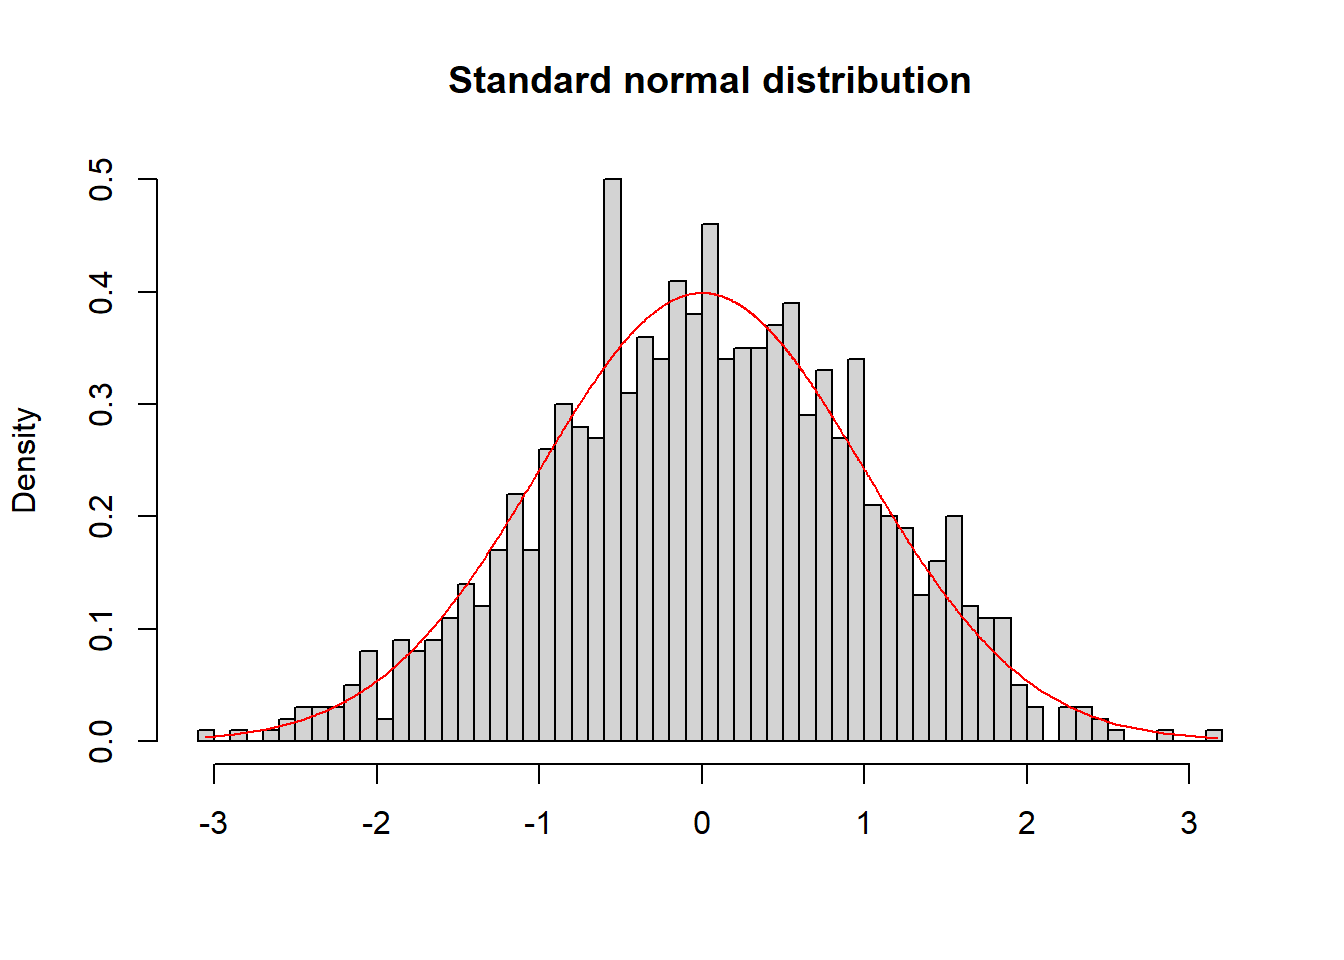
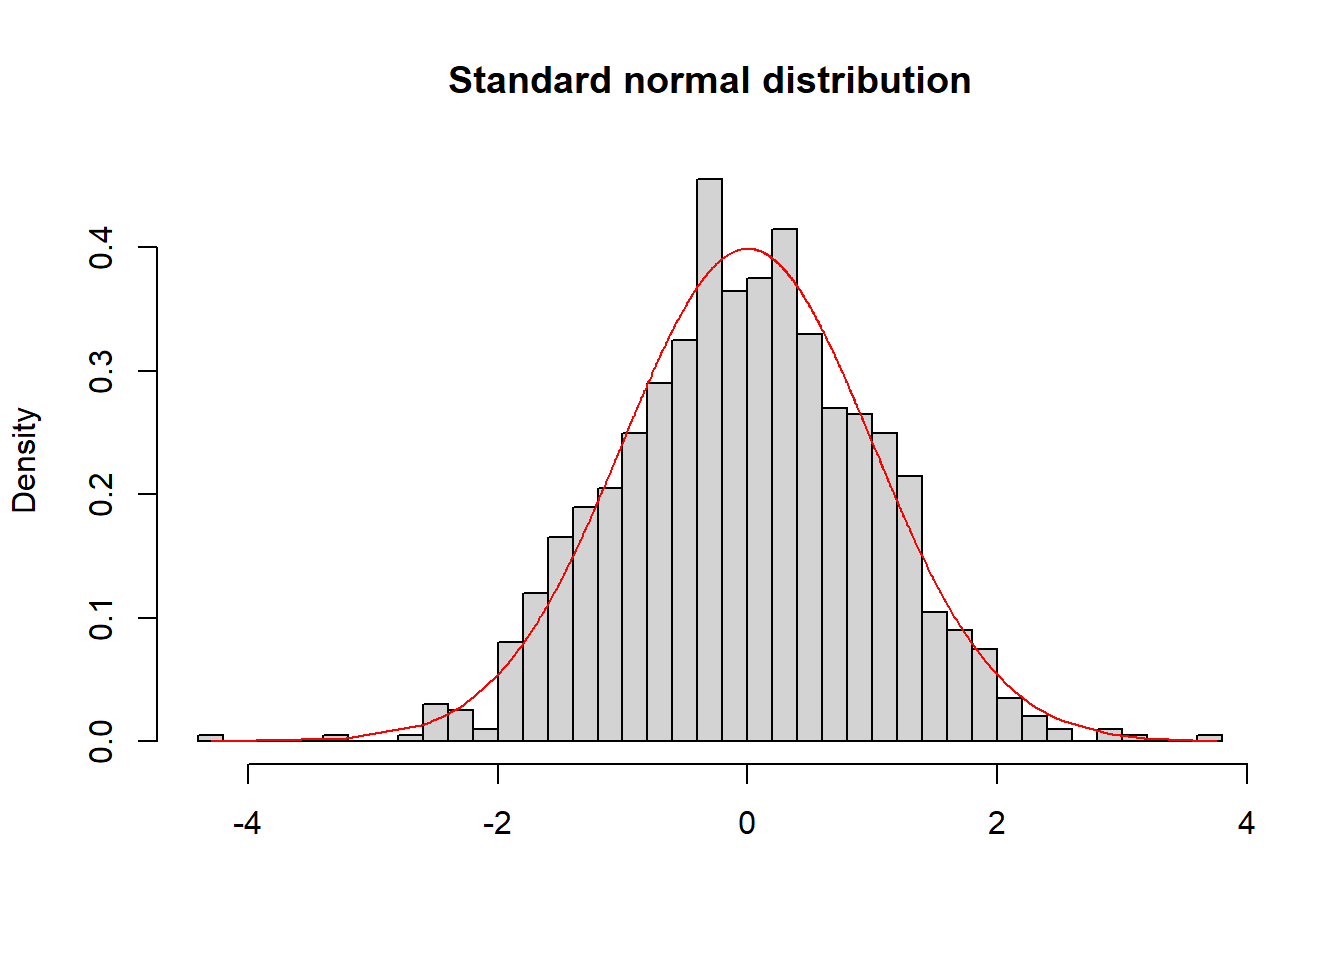
open ex2

diff --git a/_site/Exercise02.html b/_site/Exercise02.html
@@ -425,7 +425,7 @@ $(document).ready(function() {
 
 <div id="functions-for-basic-satisical-models." class="section level1">
 <h1>Functions for basic satisical models.</h1>
-<p>As an example, let <span class="math inline">\(X\)</span> be a normally distributed random variable, <span class="math inline">\(X \sim N(\mu,\sigma^2)\)</span>. The following functions are included in R order to work with the normal distribution:</p>
+<p>As an example, let <span class="math inline">\(X\)</span> be a normally distributed random variable, <span class="math inline">\(X \sim N(\mu,\sigma^2)\)</span>. The following functions are included in order to work with the normal distribution:</p>
 <ul>
 <li><strong><tt>dnorm(x,mean=<span class="math inline">\(\mu\)</span>,sd=<span class="math inline">\(\sigma\)</span>)</tt></strong>, which returns the value of the probability density function in <strong><tt>x</tt></strong> for the normal distribution;</li>
 <li><strong><tt>pnorm(q,mean=<span class="math inline">\(\mu\)</span>,sd=<span class="math inline">\(\sigma\)</span>,lower.tail=TRUE)</tt></strong>, which returns <span class="math inline">\(P(X\leq q)\)</span> when lower.tail is set to TRUE, otherwise <span class="math inline">\(P(X\geq q)\)</span>;</li>
@@ -453,6 +453,9 @@ hist(x3, breaks = 3)</code></pre>
 <p>What is a reasonable choice of the parameter <strong><tt>breaks</tt></strong>?</p>
 Obtain the following graph for the random sample <strong><tt>x3</tt></strong>.
 <div class="fold s">
+<pre class="r"><code>x3 = rnorm(n = 1000, mean = 0, sd = 1)
+hist(x3, breaks = 50,probability=TRUE,xlab =NA, main=&#39;Standard normal distribution&#39;)
+lines(sort(x3),dnorm(sort(x3)),col=&#39;red&#39;)</code></pre>
 <p><img src="Exercise02_files/figure-html/unnamed-chunk-2-1.png" width="80%" style="display: block; margin: auto;" /></p>
 </div>
 </div>
@@ -461,32 +464,64 @@ Obtain the following graph for the random sample <strong><tt>x3</tt></strong>.
 <p>Assume, the survival probability of patients after brain surgery is exponentially distributed. Assume further that the average survival time of a patient is 36 months, <span class="math inline">\(\lambda = 1/36\)</span>.</p>
 <p>Plot the density function of the exponential distribution over the interval <strong><tt>[0,200]</tt></strong>. Plot the function over a sequence obtained using the <strong><tt>seq()</tt></strong> function.</p>
 <div class="fold s o">
-
+<pre class="r"><code>x = seq(0, 200, length.out = 100)
+y = dexp(x, rate = 1/36)
+plot(x, y, type = &quot;l&quot;, xlab = &quot;months&quot;)</code></pre>
+<p><img src="Exercise02_files/figure-html/unnamed-chunk-3-1.png" width="80%" style="display: block; margin: auto;" /></p>
 </div>
 Plot the cumulative distribution function of the exponential distribution.
 <div class="fold s o">
-
+<pre class="r"><code>x = seq(0, 200, length.out = 100)
+y = pexp(x, rate = 1/36)
+plot(x, y, type = &quot;l&quot;, xlab = &quot;months&quot;)</code></pre>
+<p><img src="Exercise02_files/figure-html/unnamed-chunk-4-1.png" width="80%" style="display: block; margin: auto;" /></p>
 </div>
 <p>Determine the probability of a particular patient of surviving equal or shorter than 12 month, namely <span class="math inline">\(P(X\leq 12)\)</span>.</p>
 <div class="fold s o">
-
+<pre class="r"><code>pexp(q=12, rate=1/36)</code></pre>
+<pre><code>## [1] 0.2834687</code></pre>
 </div>
 <p>What is the probability of a particular patient of surviving longer than 5 years (i.e. 60 month)?</p>
 <div class="fold s o">
-
+<pre class="r"><code>1 - pexp(q=60, rate=1/36) # equal to pexp(q=60, rate=1/36, lower.tail = FALSE) </code></pre>
+<pre><code>## [1] 0.1888756</code></pre>
 </div>
 <p>The previous questions are equivalent to calculate the red and blue area in following plot.</p>
+<div class="fold s">
+<pre class="r"><code>curve(dexp(x,rate=1/36),from=0,to=200,xlab=&quot;months&quot;,ylab=&#39;Density&#39;)
+cord.x&lt;-c(60,seq(60,200,0.1),200)
+cord.y&lt;-c(0,dexp(seq(60,200,0.1),rate=1/36),0)
+polygon(cord.x,cord.y,col=&#39;skyblue&#39;)
+
+cord.x&lt;-c(0,seq(0,12,0.1),12)
+cord.y&lt;-c(0,dexp(seq(0,12,0.1),rate=1/36),0)
+polygon(cord.x,cord.y,col=&#39;coral1&#39;)</code></pre>
 <p><img src="Exercise02_files/figure-html/unnamed-chunk-7-1.png" width="80%" style="display: block; margin: auto;" /></p>
+</div>
 </div>
 <div id="exercise-2.3" class="section level2">
 <h2>Exercise 2.3</h2>
 <p>Let’s assume that the outcome of a therapy can be modeled as a binomial distribution , <span class="math inline">\(B(n,p)\)</span>. If <span class="math inline">\(n=10\)</span> and <span class="math inline">\(p=0.7\)</span>, determine the probability that <span class="math inline">\(k = \{1, 4, 8\}\)</span> OR LESS patients out of <span class="math inline">\(n = 10\)</span> will have a successful therapy.</p>
 <div class="fold s o">
-
+<pre class="r"><code>pbinom(1, 10, prob=0.7)
+pbinom(q=4, size=10, prob=0.7)
+pbinom(q=8, size=10, prob=0.7)
+pbinom(q=c(1, 4, 8), size=10, prob=0.7)</code></pre>
+<pre><code>## [1] 0.0001436859
+## [1] 0.04734899
+## [1] 0.8506917
+## [1] 0.0001436859 0.0473489874 0.8506916541</code></pre>
 </div>
 <p>Determine the probability that EXACTLY <span class="math inline">\(k = \{1, 4, 8\}\)</span> patients out of <span class="math inline">\(n = 10\)</span> will have a successful therapy.</p>
 <div class="fold s o">
-
+<pre class="r"><code>dbinom(x=1, size=10, prob=0.7)
+dbinom(x=4, size=10, prob=0.7)
+dbinom(x=8, size=10, prob=0.7)
+dbinom(x=c(1, 4, 8), size=10, prob=0.7)</code></pre>
+<pre><code>## [1] 0.000137781
+## [1] 0.03675691
+## [1] 0.2334744
+## [1] 0.000137781 0.036756909 0.233474440</code></pre>
 </div>
 </div>
 </div>

diff --git a/_site/Exercise01.html b/_site/Exercise01.html
@@ -431,24 +431,93 @@ $(document).ready(function() {
 <h2>Execrise 1.1</h2>
 <p>Calculate mean, median, variance, standard deviation, quartiles and the sum of the measurements before treatment (<strong><tt>mean()</tt></strong>).</p>
 <div class="fold s o">
+<pre class="r"><code>X&lt;-study1$before
+# we will show the direct function and the calculation behind it
+# sum of the elements of the vector
+sum(X)
+## [1] 5.212638
+# the sample mean
+sum(X)/length(X)
+## [1] 0.4343865
+mean(X)
+## [1] 0.4343865
+# the sample variance
+sum((X-mean(X))^2)/(length(X)-1)
+## [1] 0.01246266
+var(X)
+## [1] 0.01246266
 
+# the sample standard deviation
+sqrt(var(X))
+## [1] 0.1116363
+sd(X)
+## [1] 0.1116363
+
+#the median
+mean(sort(X)[c(length(X)/2,length(X)/2+1)])
+## [1] 0.4119027
+median(X)
+## [1] 0.4119027
+
+# quantile
+quantile(X, probs=c(0.25, 0.50, 0.75))
+##       25%       50%       75% 
+## 0.3638939 0.4119027 0.5452815
+# A quartile is the value of the quantile at the probabilities 0.25, 0.5 and 0.75.
+
+# all of this can be achieved easily using the summary function
+summary(X)
+##    Min. 1st Qu.  Median    Mean 3rd Qu.    Max. 
+##  0.2715  0.3639  0.4119  0.4344  0.5453  0.5828</code></pre>
 </div>
 </div>
 <div id="exercise-1.2" class="section level2">
 <h2>Exercise 1.2</h2>
 <p>Plot a boxplot and a histogram of the measurements obtained before the treatment. Correct the title of the axes. Choose appropriate range of axes (<strong><tt>boxplot()</tt></strong>).</p>
 <div class="fold s o">
-
+<pre class="r"><code>par(mfrow=c(1,2))# define the plot area one row, two columns
+X&lt;-study1$before
+boxplot(X, 
+        xlab = &quot;Before treatment&quot;, 
+        ylab = &quot;Blood measurements&quot;, 
+        ylim = c(0.2, 0.7), 
+        main = &quot;Box plot&quot;, 
+        horizontal = TRUE)
+points(X, y = rep(0.6, 12), pch=1,
+       col=&quot;orange&quot;, cex=0.75)
+# Histogram
+hist(X, 
+     xlim = c(0.2, 0.7), 
+     xlab = &quot;Before treatment&quot;, 
+     main = &quot;Histogram&quot;, 
+     breaks = 12)
+points(X, rep(0, 12), pch=15, col=&quot;orange&quot;, cex=0.75)</code></pre>
+<p><img src="Exercise01_files/figure-html/unnamed-chunk-4-1.png" width="672" style="display: block; margin: auto;" /></p>
 </div>
 </div>
 <div id="exercise-1.3" class="section level2">
 <h2>Exercise 1.3</h2>
 <p>Determine the absolute and relative frequencies of patients in the study groups(<strong><tt>table()</tt></strong>). Plot a bar chart and a pie chart of the parameter “group” (<strong><tt>pie()</tt></strong> and <strong><tt>barplot()</tt></strong>).</p>
 <div class="fold s o">
-
+<pre class="r"><code>X&lt;-study1$group
+## absolute and relative 
+table(X); table(X) / length(X)</code></pre>
+<pre><code>## X
+## a b 
+## 6 6 
+## X
+##   a   b 
+## 0.5 0.5</code></pre>
 </div>
 <div class="fold s o">
-
+<pre class="r"><code>par(mfrow=c(1,2))# define the plot area one row, two columns
+pie(table(X),
+    main = &quot;Pie chart&quot;
+    )
+barplot(table(X),
+        main = &quot;Bar chart&quot;
+        )</code></pre>
+<p><img src="Exercise01_files/figure-html/unnamed-chunk-6-1.png" width="672" style="display: block; margin: auto;" /></p>
 </div>
 </div>
 </div>

diff --git a/_site/Exercise00.html b/_site/Exercise00.html
@@ -806,9 +806,9 @@ str(study1)
 ##  $ group  : chr  &quot;a&quot; &quot;a&quot; &quot;a&quot; &quot;a&quot; ...
 ##  $ before : num  0.372 0.442 0.382 0.569 0.571 ...
 ##  $ after  : num  0.221 0.44 0.331 0.591 0.668 ...
-stud1_new&lt;-subset(study1,study1$group==&#39;a&#39;) # keep only the data from group a</code></pre>
-<p>In order to save the new data frame <strong><tt>stud1_new()</tt></strong> we use the general function <strong><tt>write.table()</tt></strong>.</p>
-<pre class="r"><code>write.table(stud1_new,file=&quot;./data/study1_new.csv&quot;,col.names=TRUE,sep=&quot;;&quot;)</code></pre>
+study1_new&lt;-subset(study1,study1$group==&#39;a&#39;) # keep only the data from group a</code></pre>
+<p>In order to save the new data frame <strong><tt>study1_new()</tt></strong> we use the general function <strong><tt>write.table()</tt></strong>.</p>
+<pre class="r"><code>write.table(study1_new,file=&quot;./data/study1_new.csv&quot;,col.names=TRUE,sep=&quot;;&quot;)</code></pre>
 </div>
 </div>
 </div>
@@ -882,8 +882,8 @@ x[order(x,decreasing = FALSE)]
 <h3>Exercise 2</h3>
 <p>Add two columns to the <strong><tt>study1</tt></strong> data frame:</p>
 <ol style="list-style-type: decimal">
-<li><p>A column with logical values, that says for every entry of the <strong><tt>before</tt></strong> column if is lower than 0.3.</p></li>
-<li><p>A column with logical values, that says for every entry of the <strong><tt>after</tt></strong> column if is greater than 0.4.</p></li>
+<li><p>A column with logical values, that says for every entry of the <strong><tt>before</tt></strong> column if it is lower than 0.3.</p></li>
+<li><p>A column with logical values, that says for every entry of the <strong><tt>after</tt></strong> column if it is greater than 0.4.</p></li>
 </ol>
 <p>Return the rows that fulfill both the above conditions, namely rows with value true in both columns. How many patients fulfill the above conditions?</p>
 <div class="fold s o">
